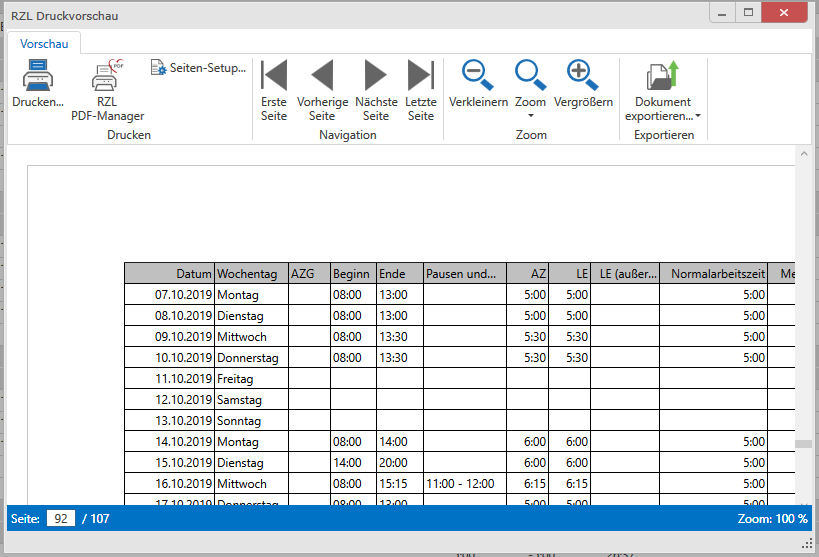
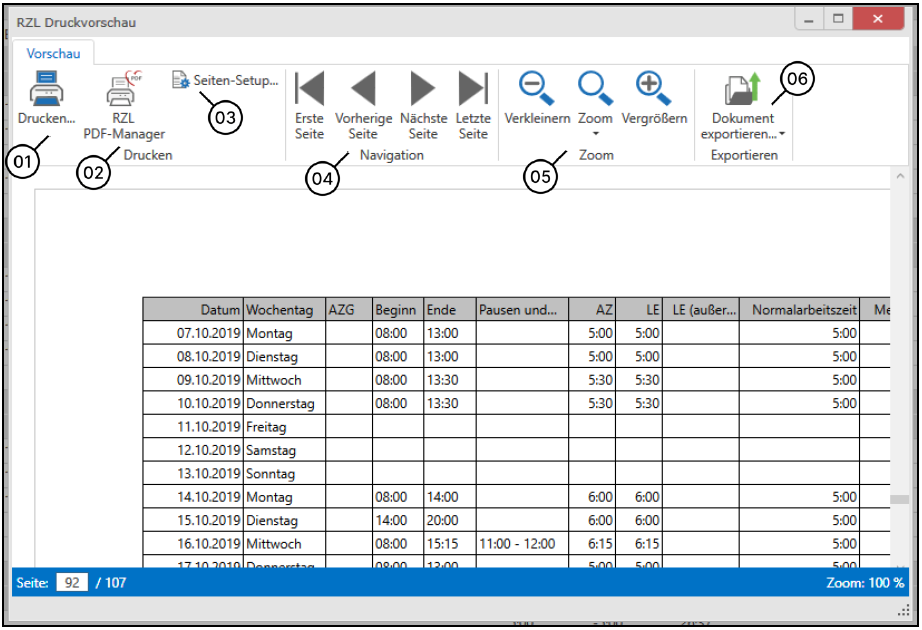
Formatierung, Bilder einfügen

Changed region(s): [[0.0, 0.0, 1.0, 1.0], [0.3968, 0.0916, 0.4579, 0.1221]]

diff --git a/docs/LENext/Urlaubskartei/Urlaubskartei.md b/docs/LENext/Urlaubskartei/Urlaubskartei.md
@@ -3,16 +3,14 @@
 Über den Button *Urlaubskartei* kann die Urlaubskartei aufgerufen
 werden, um den Urlaubssaldo nachvollziehen zu können.
 
-Abb. 5‑1 Urlaubskartei
 
 ![](<img/image97.png>)
 
 Dargestellt werden in der Urlaubskartei der Anfangsbestand, der Beginn
 des Urlaubsjahres, Anspruchszeilen und Verbrauchszeilen.
 
-Hinweis
-
-In der Urlaubskartei sind keine Änderungen möglich.
+!!! warning "Hinweis"
+    In der Urlaubskartei sind keine Änderungen möglich.
 
 Die Urlaubskartei kann im oberen Bereich auf Zeiträume eingeschränkt
 werden.
@@ -20,7 +18,6 @@ werden.
 Standartmäßig wird beim Bis Datum der heutige Tag + ein Jahr
 vorgeschlagen.
 
-Abb. 5‑2 Urlaubskartei einschränken
 
 ![](<img/image98.png>)
 
@@ -31,7 +28,6 @@ Wurden mehrere Tage als Urlaub in der Leistungserfassung erfasst, so
 werden diese in Summe dargestellt. Die genaue Darstellung können Sie
 nachfolgender Abbildung entnehmen.
 
-Abb. 5‑3 Urlaubskartei
 
 ![](<img/image99.png>)
 
@@ -102,17 +98,13 @@ Umrechnung Saldo Stunden in Saldo Tage mit 01.01.24:
 Saldo in Stunden 178,75 h / 38,5 h pro Woche \* 5 AT pro Woche = 23,21
 Tage Anspruch Urlaub
 
-HINWEIS
+!!! warning "Hinweis"
+    Bei einer Umstellung der Urlaubsverwaltung wird dies in der
+    Urlaubskartei der Mitarbeiter gesondert ausgewiesen. Die aktuell
+    eingestellte Art der Erfassung (Stunden oder Tage) wird in schwarzer
+    Schriftfarbe dargestellt.
 
-Bei einer Umstellung der Urlaubsverwaltung wird dies in der
-Urlaubskartei der Mitarbeiter gesondert ausgewiesen. Die aktuell
-eingestellte Art der Erfassung (Stunden oder Tage) wird in schwarzer
-Schriftfarbe dargestellt.
-
-HINWEIS
-
-Die Spalten *Stunden* und *Saldo Stunden bzw. Tage* und *Saldo Tage*
-können durch Rechtsklick auf die Überschriftenspalte jederzeit ein- und
-ausgeblendet werden.
-
-**  
+!!! warning "Hinweis"
+    Die Spalten *Stunden* und *Saldo Stunden bzw. Tage* und *Saldo Tage*
+    können durch Rechtsklick auf die Überschriftenspalte jederzeit ein- und
+    ausgeblendet werden.

diff --git a/docs/LENext/Sonstige Funktionen/Sonstige Funktionen.md b/docs/LENext/Sonstige Funktionen/Sonstige Funktionen.md
@@ -18,7 +18,6 @@ Arbeitszeiten in folgenden Formaten exportiert werden:
 
 -   DOCX
 
-Abb. 6‑1 Liste exportieren
 
 ![](<img/image102.png>)
 
@@ -30,7 +29,6 @@ Nachfolgend erhalten Sie nach dem Export die Abfrage ob Sie die
 exportierte Liste öffnen wollen. Wenn Sie auf *Öffnen* klicken öffnet
 sich das Dokument am Bildschirm.
 
-Abb. 6‑2 Liste exportieren - Abfrage
 
 ![](<img/image103.png>)
 
@@ -39,7 +37,6 @@ Abb. 6‑2 Liste exportieren - Abfrage
 Mittels der Schaltfläche *Liste drucken* öffnet sich die
 RZL-Druckvorschau.
 
-Abb. 6‑3 Liste drucken
 
 ![](<img/image104.png>)
 
